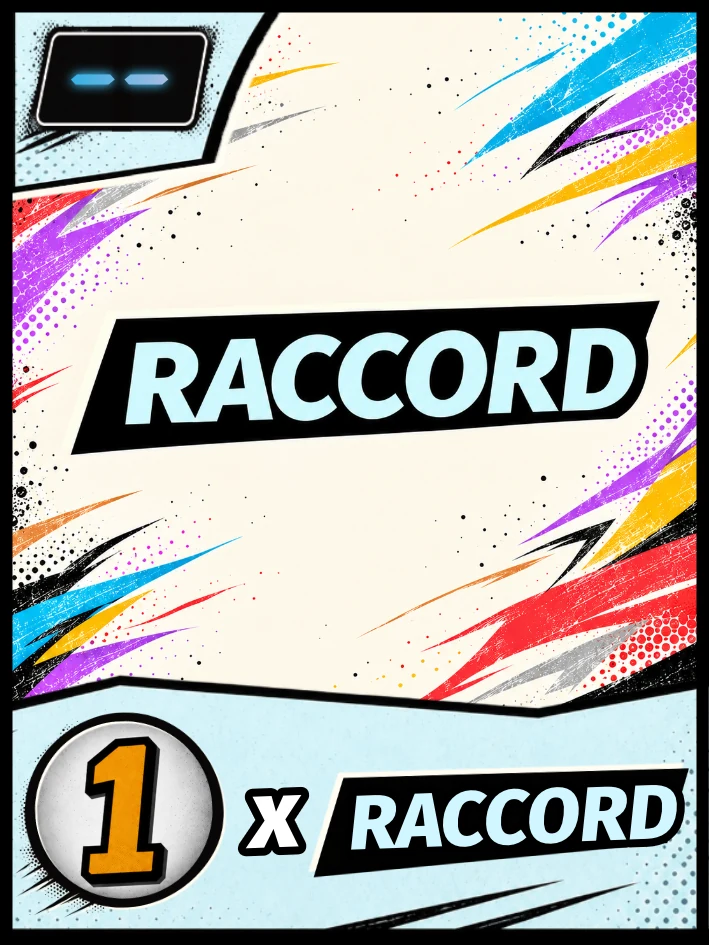
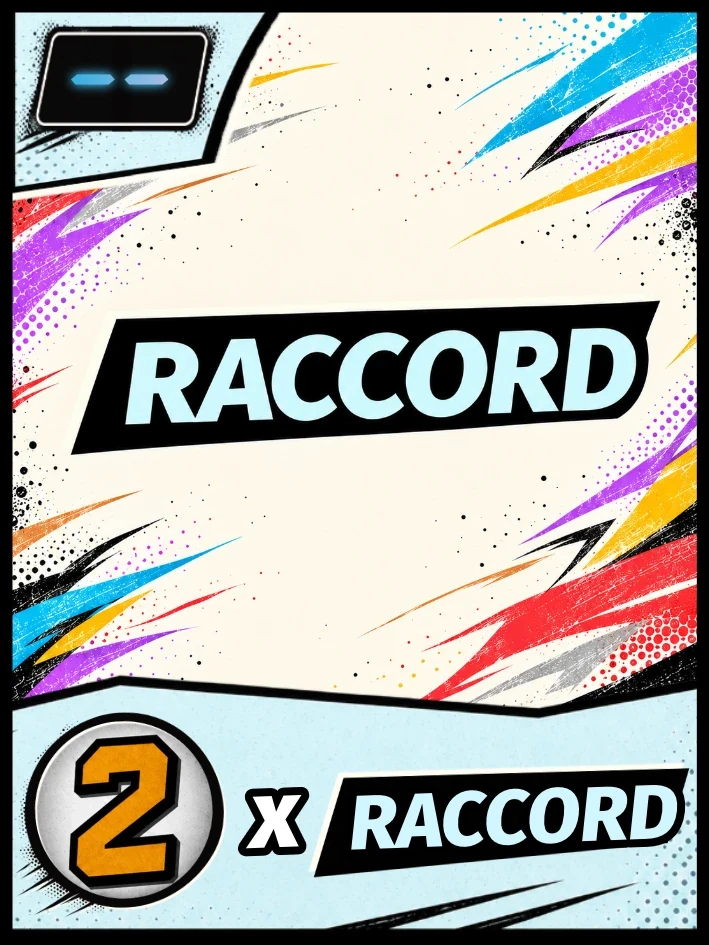
v4.1.23 - Le Raccord passe à « 2 × RACCORD »
- Le Raccord passe à « 2 × RACCORD » : nouvelle image, et chacun des 12 Raccords rapporte 2 points par Raccord du montage.

Claude-Session: https://claude.ai/code/session_01SEL89cNhQA7nZJAfcMueK5

diff --git a/js/data.js b/js/data.js
@@ -1121,7 +1121,7 @@ const GP_41 = [
   X41(65, 60, ['ALLIE', 'OBJET'], OBJ.domine(6, 'ALLIE'), { mort: true }),
   X41(66, 60, ['ARME', 'ALLIE'], OBJ.seuilCible(4, 'ORDRE', 'MIN', 1, 'SEQUENCE'), { mort: true }),
   X41(67, 60, ['ALLIE', 'VEHICULE'], OBJ.plan(1, 'SUITE')),
-  X41(100, 0, [], OBJ.raccord(1), { transition: 'RACCORD', titre: 'Raccord' }),
+  X41(100, 0, [], OBJ.raccord(2), { transition: 'RACCORD', titre: 'Raccord' }),
   X41(101, 1, [], OBJ.seuilCible(5, 'PLAN', 'MAX', 0, 'AMONT'), { transition: 'OUVERTURE', titre: 'BBG présente' }),
   X41(102, 70, [], OBJ.seuilCible(5, 'PLAN', 'MAX', 0, 'SUITE'), { transition: 'CREDITS', titre: 'Fin' }),
 ];

diff --git a/js/livret.js b/js/livret.js
@@ -259,7 +259,7 @@ const SE_DECLENCHENT = [
 const CHANGENT_UNE_REGLE = [
   { si: (o) => o.kind === 'RACCORD_VAUT',
     dit: (o) => `<b>Chaque Raccord vaut ${o.n < 0 ? '−' : '+'}${Math.abs(o.n)}.</b>
-      Le « 1 × Raccord » d’un Raccord de votre montage se lit « ${1 + o.n} × Raccord ». Ce plan-ci ne
+      Le « 2 × Raccord » d’un Raccord de votre montage se lit « ${2 + o.n} × Raccord ». Ce plan-ci ne
       marque rien lui-même.` },
   { si: (o) => o.kind === 'PLAN_PLUS',
     dit: (o) => `<b>${o.n > 1 ? `${o.n} tours` : 'Un tour'} de plus.</b> Quand le dernier tour est

diff --git a/js/version.js b/js/version.js
@@ -1,8 +1,15 @@
 // Compteur de version — incrémenter à chaque modification livrée.
-export const VERSION = '4.1.22';
-export const BUILD_DATE = '2026-11-16 20:52';
+export const VERSION = '4.1.23';
+export const BUILD_DATE = '2026-11-16 20:53';
 
 export const CHANGELOG = [
+  {
+    v: '4.1.23',
+    date: '16/11/2026',
+    items: [
+      "<b>Le Raccord passe à « 2 × RACCORD »</b> : nouvelle image, et chacun des 12 Raccords rapporte 2 points par Raccord du montage.",
+    ],
+  },
   {
     v: '4.1.22',
     date: '16/11/2026',

diff --git a/sw.js b/sw.js
@@ -7,7 +7,7 @@
 // site, et ne se rabat sur sa copie en cache qu'en cas de coupure — le site
 // reste donc consultable hors ligne, mais n'est jamais périmé en ligne.
 
-const CACHE = 'edit-4.1.22';
+const CACHE = 'edit-4.1.23';
 
 self.addEventListener('install', () => {
   // La nouvelle version du worker prend la main sans attendre.
